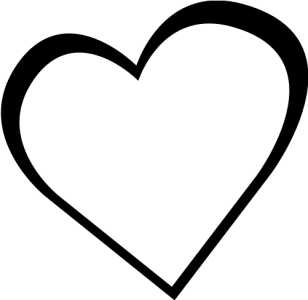
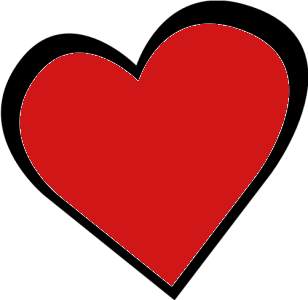
Added a like button in images, like buttons on cards are clickable, key for id on it

diff --git a/src/components/beers/DisplayBeer.jsx b/src/components/beers/DisplayBeer.jsx
@@ -1,11 +1,11 @@
 import React, { useState } from 'react';
 import like from '../../images/like.png';
+import dislike from '../../images/dislike.png';
 import './DisplayBeer.css';
 
 const DisplayBeer = ({ beer }) => {
   const [favourite, setFavourite] = useState(false);
   const handleClickFavourite = () => setFavourite(!favourite);
-  const handleKeyUp = () => setFavourite(!favourite);
   return (
     beer && (
       <div className="card__beer">
@@ -22,16 +22,32 @@ const DisplayBeer = ({ beer }) => {
           <p className="beer__right__ibu">{beer.ibu}</p>
           <p className="beer__right__tagline">{beer.tagline}</p>
           <p className="beer__right__description">{beer.desription}</p>
-          <button
-            id="button__like"
-            onClick={handleClickFavourite}
-            onKeyUp={handleKeyUp}
-            type="button"
-            aria-label="save"
-            className={favourite ? 'isFavourite' : 'notFavourite'}
-          >
-            <img src={like} alt="like button" className="button__like" />
-          </button>
+          <div>
+            {favourite && (
+              <button
+                id="favourite"
+                className="button__favourite"
+                onClick={handleClickFavourite}
+                aria-label="fav"
+                type="button"
+                key={beer.id}
+              >
+                <img src={like} alt="like" className="button__like" />
+              </button>
+            )}
+            {!favourite && (
+              <button
+                id="notFav"
+                className="button__favourite"
+                onClick={handleClickFavourite}
+                aria-label="fav"
+                type="button"
+                key={beer.id}
+              >
+                <img src={dislike} alt="dislike" className="button__like" />
+              </button>
+            )}
+          </div>
         </div>
       </div>
     )

diff --git a/src/components/beers/DisplayBeer.css b/src/components/beers/DisplayBeer.css
@@ -5,7 +5,7 @@
   border-color: transparent;
 }
 
-#button__like {
+.button__favourite {
   background-color: transparent;
   border-color: transparent;
 }
